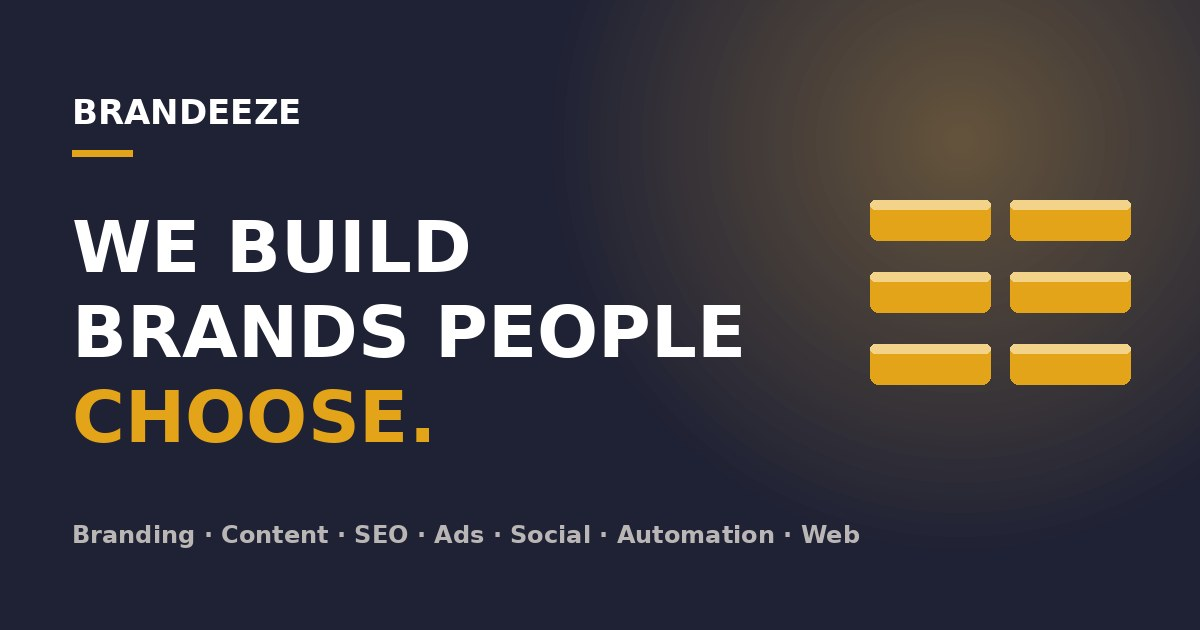
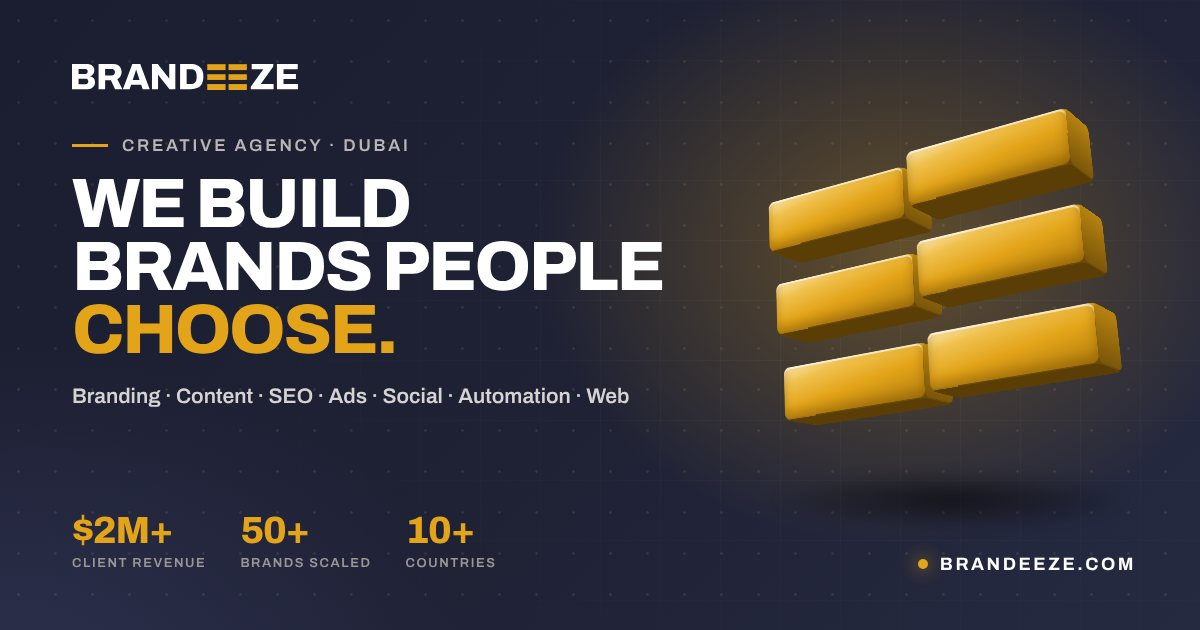
SEO/GEO: per-page share images, homepage FAQ + schema, quick answers, llms.txt, AI crawler rules, image sitemap
Claude-Session: https://claude.ai/code/session_011ZZkLSKrB1nZxj8LvnqDWT

diff --git a/index.html b/index.html
@@ -9,10 +9,10 @@
 <meta name="robots" content="index,follow,max-image-preview:large">
 <meta property="og:type" content="website"><meta property="og:site_name" content="Brandeeze"><meta property="og:url" content="https://brandeeze.com/">
 <meta property="og:title" content="Brandeeze | Creative & Marketing Agency in Dubai"><meta property="og:description" content="Brandeeze is a Dubai-based creative and marketing agency: branding, video, SEO, paid ads, social media, automation and web design. One team, clear results.">
-<meta property="og:image" content="https://brandeeze.com/assets/og-image.jpg"><meta property="og:image:width" content="1200"><meta property="og:image:height" content="630">
-<meta name="twitter:card" content="summary_large_image"><meta name="twitter:image" content="https://brandeeze.com/assets/og-image.jpg">
+<meta property="og:image" content="https://brandeeze.com/assets/og/home.jpg"><meta property="og:image:width" content="1200"><meta property="og:image:height" content="630"><meta property="og:image:alt" content="Brandeeze, creative and marketing agency in Dubai">
+<meta name="twitter:card" content="summary_large_image"><meta name="twitter:image" content="https://brandeeze.com/assets/og/home.jpg">
 <link rel="icon" href="/assets/favicon.svg" type="image/svg+xml">
-<script type="application/ld+json">{"@context": "https://schema.org", "@graph": [{"@type": "ProfessionalService", "@id": "https://brandeeze.com/#org", "name": "Brandeeze", "url": "https://brandeeze.com/", "logo": "https://brandeeze.com/assets/wordmark-on-dark.svg", "image": "https://brandeeze.com/assets/og-image.jpg", "description": "Brandeeze is a Dubai-based creative and marketing agency for branding, video and content, SEO and performance marketing, social media, automation and web and software.", "email": "hello@brandeeze.com", "address": {"@type": "PostalAddress", "addressLocality": "Dubai", "addressCountry": "AE"}, "areaServed": [{"@type": "Place", "name": "Worldwide"}, {"@type": "Country", "name": "United Arab Emirates"}, {"@type": "Country", "name": "Saudi Arabia"}], "knowsAbout": ["Branding", "Logo design", "Video production", "Content marketing", "SEO", "Local SEO", "Google Ads", "Meta ads", "Performance marketing", "Social media marketing", "Influencer marketing", "Marketing automation", "WhatsApp automation", "CRM consultancy", "AI automation", "Web design", "E-commerce development", "Software development", "Data & analytics consultancy"], "hasOfferCatalog": {"@type": "OfferCatalog", "name": "Brandeeze services", "itemListElement": [{"@type": "Offer", "itemOffered": {"@type": "Service", "name": "Branding", "url": "https://brandeeze.com/services/branding-agency"}}, {"@type": "Offer", "itemOffered": {"@type": "Service", "name": "Logo design", "url": "https://brandeeze.com/services/logo-design"}}, {"@type": "Offer", "itemOffered": {"@type": "Service", "name": "Video production", "url": "https://brandeeze.com/services/video-production-company"}}, {"@type": "Offer", "itemOffered": {"@type": "Service", "name": "Content marketing", "url": "https://brandeeze.com/services/content-marketing-agency"}}, {"@type": "Offer", "itemOffered": {"@type": "Service", "name": "SEO", "url": "https://brandeeze.com/services/seo-agency"}}, {"@type": "Offer", "itemOffered": {"@type": "Service", "name": "Local SEO", "url": "https://brandeeze.com/services/local-seo"}}, {"@type": "Offer", "itemOffered": {"@type": "Service", "name": "Google Ads", "url": "https://brandeeze.com/services/google-ads-agency"}}, {"@type": "Offer", "itemOffered": {"@type": "Service", "name": "Meta ads", "url": "https://brandeeze.com/services/meta-ads-agency"}}, {"@type": "Offer", "itemOffered": {"@type": "Service", "name": "Performance marketing", "url": "https://brandeeze.com/services/performance-marketing-agency"}}, {"@type": "Offer", "itemOffered": {"@type": "Service", "name": "Social media marketing", "url": "https://brandeeze.com/services/social-media-agency"}}, {"@type": "Offer", "itemOffered": {"@type": "Service", "name": "Influencer marketing", "url": "https://brandeeze.com/services/influencer-marketing-agency"}}, {"@type": "Offer", "itemOffered": {"@type": "Service", "name": "Marketing automation", "url": "https://brandeeze.com/services/marketing-automation-agency"}}, {"@type": "Offer", "itemOffered": {"@type": "Service", "name": "WhatsApp automation", "url": "https://brandeeze.com/services/whatsapp-automation"}}, {"@type": "Offer", "itemOffered": {"@type": "Service", "name": "CRM consultancy", "url": "https://brandeeze.com/services/crm-consultancy"}}, {"@type": "Offer", "itemOffered": {"@type": "Service", "name": "AI automation", "url": "https://brandeeze.com/services/ai-automation-agency"}}, {"@type": "Offer", "itemOffered": {"@type": "Service", "name": "Web design", "url": "https://brandeeze.com/services/web-design-company"}}, {"@type": "Offer", "itemOffered": {"@type": "Service", "name": "E-commerce development", "url": "https://brandeeze.com/services/ecommerce-development"}}, {"@type": "Offer", "itemOffered": {"@type": "Service", "name": "Software development", "url": "https://brandeeze.com/services/software-development-company"}}, {"@type": "Offer", "itemOffered": {"@type": "Service", "name": "Data & analytics consultancy", "url": "https://brandeeze.com/services/data-analytics-consultancy"}}]}}, {"@type": "WebSite", "@id": "https://brandeeze.com/#website", "name": "Brandeeze", "url": "https://brandeeze.com/", "publisher": {"@id": "https://brandeeze.com/#org"}, "inLanguage": "en"}]}</script>
+<script type="application/ld+json">{"@context": "https://schema.org", "@graph": [{"@type": "ProfessionalService", "@id": "https://brandeeze.com/#org", "name": "Brandeeze", "url": "https://brandeeze.com/", "logo": "https://brandeeze.com/assets/wordmark-on-dark.svg", "image": "https://brandeeze.com/assets/og/home.jpg", "slogan": "One team. Six disciplines. Brands that grow.", "contactPoint": {"@type": "ContactPoint", "contactType": "sales", "email": "hello@brandeeze.com", "availableLanguage": ["English", "Arabic"]}, "description": "Brandeeze is a Dubai-based creative and marketing agency for branding, video and content, SEO and performance marketing, social media, automation and web and software.", "email": "hello@brandeeze.com", "address": {"@type": "PostalAddress", "addressLocality": "Dubai", "addressCountry": "AE"}, "areaServed": [{"@type": "Place", "name": "Worldwide"}, {"@type": "Country", "name": "United Arab Emirates"}, {"@type": "Country", "name": "Saudi Arabia"}], "knowsAbout": ["Branding", "Logo design", "Video production", "Content marketing", "SEO", "Local SEO", "Google Ads", "Meta ads", "Performance marketing", "Social media marketing", "Influencer marketing", "Marketing automation", "WhatsApp automation", "CRM consultancy", "AI automation", "Web design", "E-commerce development", "Software development", "Data & analytics consultancy"], "hasOfferCatalog": {"@type": "OfferCatalog", "name": "Brandeeze services", "itemListElement": [{"@type": "Offer", "itemOffered": {"@type": "Service", "name": "Branding", "url": "https://brandeeze.com/services/branding-agency"}}, {"@type": "Offer", "itemOffered": {"@type": "Service", "name": "Logo design", "url": "https://brandeeze.com/services/logo-design"}}, {"@type": "Offer", "itemOffered": {"@type": "Service", "name": "Video production", "url": "https://brandeeze.com/services/video-production-company"}}, {"@type": "Offer", "itemOffered": {"@type": "Service", "name": "Content marketing", "url": "https://brandeeze.com/services/content-marketing-agency"}}, {"@type": "Offer", "itemOffered": {"@type": "Service", "name": "SEO", "url": "https://brandeeze.com/services/seo-agency"}}, {"@type": "Offer", "itemOffered": {"@type": "Service", "name": "Local SEO", "url": "https://brandeeze.com/services/local-seo"}}, {"@type": "Offer", "itemOffered": {"@type": "Service", "name": "Google Ads", "url": "https://brandeeze.com/services/google-ads-agency"}}, {"@type": "Offer", "itemOffered": {"@type": "Service", "name": "Meta ads", "url": "https://brandeeze.com/services/meta-ads-agency"}}, {"@type": "Offer", "itemOffered": {"@type": "Service", "name": "Performance marketing", "url": "https://brandeeze.com/services/performance-marketing-agency"}}, {"@type": "Offer", "itemOffered": {"@type": "Service", "name": "Social media marketing", "url": "https://brandeeze.com/services/social-media-agency"}}, {"@type": "Offer", "itemOffered": {"@type": "Service", "name": "Influencer marketing", "url": "https://brandeeze.com/services/influencer-marketing-agency"}}, {"@type": "Offer", "itemOffered": {"@type": "Service", "name": "Marketing automation", "url": "https://brandeeze.com/services/marketing-automation-agency"}}, {"@type": "Offer", "itemOffered": {"@type": "Service", "name": "WhatsApp automation", "url": "https://brandeeze.com/services/whatsapp-automation"}}, {"@type": "Offer", "itemOffered": {"@type": "Service", "name": "CRM consultancy", "url": "https://brandeeze.com/services/crm-consultancy"}}, {"@type": "Offer", "itemOffered": {"@type": "Service", "name": "AI automation", "url": "https://brandeeze.com/services/ai-automation-agency"}}, {"@type": "Offer", "itemOffered": {"@type": "Service", "name": "Web design", "url": "https://brandeeze.com/services/web-design-company"}}, {"@type": "Offer", "itemOffered": {"@type": "Service", "name": "E-commerce development", "url": "https://brandeeze.com/services/ecommerce-development"}}, {"@type": "Offer", "itemOffered": {"@type": "Service", "name": "Software development", "url": "https://brandeeze.com/services/software-development-company"}}, {"@type": "Offer", "itemOffered": {"@type": "Service", "name": "Data & analytics consultancy", "url": "https://brandeeze.com/services/data-analytics-consultancy"}}]}}, {"@type": "FAQPage", "@id": "https://brandeeze.com/#faq", "mainEntity": [{"@type": "Question", "name": "What does Brandeeze do?", "acceptedAnswer": {"@type": "Answer", "text": "Brandeeze is a creative and marketing agency based in Dubai. One team covers six disciplines: branding, video and content, SEO and performance marketing, social media, automation (CRM, WhatsApp and AI agents) and web and software."}}, {"@type": "Question", "name": "Where is Brandeeze based, and which markets do you work in?", "acceptedAnswer": {"@type": "Answer", "text": "We are based in Dubai, UAE, and work with brands across the GCC, the wider Middle East, Europe, North America, Asia and Africa. We work in English and Arabic."}}, {"@type": "Question", "name": "Do you offer SEO as a service?", "acceptedAnswer": {"@type": "Answer", "text": "Yes. SEO sits inside our SEO and performance practice alongside Google Ads and Meta ads: technical SEO, local SEO and Google Business Profile, content, and conversion tracking, reported against leads and revenue rather than rankings alone."}}, {"@type": "Question", "name": "What results have you delivered for clients?", "acceptedAnswer": {"@type": "Answer", "text": "Across our client work we have generated over $2M in revenue for clients and helped scale 50+ businesses. Each case study on our work page shows the specific numbers, timeframe and what we did."}}, {"@type": "Question", "name": "How long does a branding or website project take?", "acceptedAnswer": {"@type": "Answer", "text": "A focused brand identity usually takes 3 to 6 weeks, and a marketing website 4 to 8 weeks. Larger e-commerce builds, software and automation projects are scoped individually after a short discovery call."}}, {"@type": "Question", "name": "How do we start working together?", "acceptedAnswer": {"@type": "Answer", "text": "Send a brief through the contact page or email hello@brandeeze.com. We reply with questions, a scope and a fixed quote, and you can download our company profile to see past work first."}}]}, {"@type": "WebPage", "@id": "https://brandeeze.com/#webpage", "url": "https://brandeeze.com/", "name": "Brandeeze | Creative & Marketing Agency in Dubai", "isPartOf": {"@id": "https://brandeeze.com/#website"}, "about": {"@id": "https://brandeeze.com/#org"}, "primaryImageOfPage": "https://brandeeze.com/assets/og/home.jpg", "dateModified": "2026-11-25", "inLanguage": "en"}, {"@type": "WebSite", "@id": "https://brandeeze.com/#website", "name": "Brandeeze", "url": "https://brandeeze.com/", "publisher": {"@id": "https://brandeeze.com/#org"}, "inLanguage": "en"}]}</script>
 <meta name="theme-color" content="#1F2235">
 <link rel="stylesheet" href="_ds/brandeez-design-system-fbe1068f-90f0-4bec-97b9-453ac5cf9fae/tokens/fonts.css">
 <style>
@@ -234,6 +234,16 @@ main{transition:opacity .9s var(--ease) .15s}body.loading main,body.loading .nav
 @media (max-width:560px){.process .grid{grid-template-columns:1fr}}
 
 /* ---------- CTA / footer ---------- */
+.faq-s{position:relative;z-index:1;padding:clamp(90px,10vw,160px) 0 0}
+.faq-s .fqs{margin-top:clamp(32px,4vw,56px);border-top:1px solid rgba(255,255,255,.12)}
+.fq{border-bottom:1px solid rgba(255,255,255,.12)}
+.fq summary{list-style:none;cursor:pointer;display:flex;justify-content:space-between;align-items:center;gap:24px;padding:24px 0;font-size:clamp(18px,2vw,24px);font-weight:600;letter-spacing:-.01em}
+.fq summary::-webkit-details-marker{display:none}
+.fq .pm{flex:none;width:18px;height:18px;position:relative}
+.fq .pm:before,.fq .pm:after{content:"";position:absolute;left:0;right:0;top:8px;height:2px;background:var(--gold,#E3A419);transition:transform .3s}
+.fq .pm:after{transform:rotate(90deg)}
+.fq[open] .pm:after{transform:rotate(0)}
+.fq p{margin:0 0 26px;max-width:760px;color:rgba(233,231,231,.78);font-size:17px;line-height:1.6}
 .cta-s{position:relative;z-index:1;min-height:100vh;display:flex;flex-direction:column;justify-content:flex-end;padding:clamp(120px,14vw,220px) 0 0}
 .cta-s .big{text-align:center}
 .cta-s .big .h-xl{font-size:clamp(64px,13vw,230px)}
@@ -377,6 +387,22 @@ footer a:hover{color:var(--gold)}
     </div>
   </section>
 
+  <!-- FAQ -->
+  <section class="faq-s" id="faq">
+    <div class="wrap">
+      <span class="label reveal"><b>FAQ</b> Straight answers</span>
+      <h2 class="h-lg reveal" style="margin-top:24px">Questions brands<br>ask us <span class="gold">first.</span></h2>
+      <div class="fqs">
+        <details class="fq reveal"><summary>What does Brandeeze do?<span class="pm" aria-hidden="true"></span></summary><p>Brandeeze is a creative and marketing agency based in Dubai. One team covers six disciplines: branding, video and content, SEO and performance marketing, social media, automation (CRM, WhatsApp and AI agents) and web and software.</p></details>
+        <details class="fq reveal"><summary>Where is Brandeeze based, and which markets do you work in?<span class="pm" aria-hidden="true"></span></summary><p>We are based in Dubai, UAE, and work with brands across the GCC, the wider Middle East, Europe, North America, Asia and Africa. We work in English and Arabic.</p></details>
+        <details class="fq reveal"><summary>Do you offer SEO as a service?<span class="pm" aria-hidden="true"></span></summary><p>Yes. SEO sits inside our SEO and performance practice alongside Google Ads and Meta ads: technical SEO, local SEO and Google Business Profile, content, and conversion tracking, reported against leads and revenue rather than rankings alone.</p></details>
+        <details class="fq reveal"><summary>What results have you delivered for clients?<span class="pm" aria-hidden="true"></span></summary><p>Across our client work we have generated over $2M in revenue for clients and helped scale 50+ businesses. Each case study on our work page shows the specific numbers, timeframe and what we did.</p></details>
+        <details class="fq reveal"><summary>How long does a branding or website project take?<span class="pm" aria-hidden="true"></span></summary><p>A focused brand identity usually takes 3 to 6 weeks, and a marketing website 4 to 8 weeks. Larger e-commerce builds, software and automation projects are scoped individually after a short discovery call.</p></details>
+        <details class="fq reveal"><summary>How do we start working together?<span class="pm" aria-hidden="true"></span></summary><p>Send a brief through the contact page or email hello@brandeeze.com. We reply with questions, a scope and a fixed quote, and you can download our company profile to see past work first.</p></details>
+      </div>
+    </div>
+  </section>
+
   <!-- CTA -->
   <section class="cta-s" data-scene="4">
     <div class="wrap big">
@@ -393,7 +419,7 @@ footer a:hover{color:var(--gold)}
     <footer>
       <div class="wrap">
         <span class="cap">© 2026 Brandeeze</span>
-        <nav><a href="#services">Services</a><a href="/work">Work</a><a href="Contact.dc.html">Contact</a><a href="/locations">Locations</a><a href="/brandeeze-profile.pdf" target="_blank" rel="noopener">Company profile (PDF)</a></nav>
+        <nav><a href="#services">Services</a><a href="/work">Work</a><a href="#faq">FAQ</a><a href="Contact.dc.html">Contact</a><a href="/locations">Locations</a><a href="/brandeeze-profile.pdf" target="_blank" rel="noopener">Company profile (PDF)</a></nav>
         <nav><a href="/dubai">Agency in Dubai</a><a href="/abu-dhabi">Abu Dhabi</a><a href="/riyadh">Riyadh</a><a href="/services/seo-agency">SEO agency</a><a href="/services/branding-agency">Branding agency</a></nav>
         <span>Branding, content, SEO, performance, social, automation and software.</span>
       </div>

diff --git a/seo/og/og.html b/seo/og/og.html
@@ -1,0 +1,71 @@
+<!DOCTYPE html>
+<html><head><meta charset="utf-8">
+<style>
+@font-face{font-family:A;src:url(../../_ds/brandeez-design-system-fbe1068f-90f0-4bec-97b9-453ac5cf9fae/assets/fonts/archivo-latin-800-normal.woff2) format("woff2");font-weight:800}
+@font-face{font-family:A;src:url(../../_ds/brandeez-design-system-fbe1068f-90f0-4bec-97b9-453ac5cf9fae/assets/fonts/archivo-latin-600-normal.woff2) format("woff2");font-weight:600}
+@font-face{font-family:A;src:url(../../_ds/brandeez-design-system-fbe1068f-90f0-4bec-97b9-453ac5cf9fae/assets/fonts/archivo-latin-700-normal.woff2) format("woff2");font-weight:700}
+*{box-sizing:border-box;margin:0}
+html,body{width:1200px;height:630px;overflow:hidden;background:#1F2235}
+body{font-family:A,sans-serif;color:#fff;position:relative}
+.bg{position:absolute;inset:0;background:
+  radial-gradient(520px 420px at 900px 250px,rgba(227,164,25,.34),transparent 70%),
+  radial-gradient(700px 500px at 0 700px,rgba(46,50,80,.95),transparent 70%),
+  linear-gradient(135deg,#1B1E30,#1F2235 55%,#262A41)}
+.grid{position:absolute;inset:0;background-image:linear-gradient(rgba(255,255,255,.035) 1px,transparent 1px),linear-gradient(90deg,rgba(255,255,255,.035) 1px,transparent 1px);background-size:60px 60px;mask:radial-gradient(800px 500px at 900px 300px,#000,transparent)}
+.dots{position:absolute;inset:0;background-image:radial-gradient(rgba(243,211,137,.55) 1px,transparent 1.5px);background-size:37px 41px;opacity:.18}
+.left{position:absolute;left:72px;top:64px;bottom:60px;width:640px;display:flex;flex-direction:column}
+.logo{height:26px;width:auto;align-self:flex-start}
+.tag{margin-top:46px;display:flex;align-items:center;gap:14px;font-weight:600;font-size:17px;letter-spacing:.16em;text-transform:uppercase;color:#BAB6B6}
+.tag:before{content:"";width:36px;height:3px;background:#E3A419}
+h1{margin-top:18px;font-weight:800;text-transform:uppercase;letter-spacing:-.035em;line-height:.9;font-size:var(--fs,92px)}
+h1 em{font-style:normal;color:#E3A419}
+.sub{margin-top:20px;font-weight:600;font-size:21px;line-height:1.35;color:#D7D3D3;max-width:600px}
+.foot{margin-top:auto;display:flex;gap:34px;align-items:flex-end}
+.stat b{display:block;font-weight:800;font-size:38px;letter-spacing:-.03em;color:#E3A419;line-height:1}
+.stat span{display:block;margin-top:6px;font-weight:600;font-size:13px;letter-spacing:.12em;text-transform:uppercase;color:#9B9797}
+.url{position:absolute;right:64px;bottom:56px;font-weight:700;font-size:18px;letter-spacing:.14em;text-transform:uppercase;color:#fff;display:flex;align-items:center;gap:12px}
+.url i{width:10px;height:10px;border-radius:50%;background:#E3A419;box-shadow:0 0 18px #E3A419}
+/* 3D logo */
+.stage{position:absolute;left:720px;top:70px;width:420px;height:420px;perspective:1100px}
+.logo3d{position:absolute;left:50%;top:50%;transform-style:preserve-3d;transform:rotateX(14deg) rotateY(-30deg) rotateZ(-4deg)}
+.bar{position:absolute;transform-style:preserve-3d;--w:170px;--h:54px;--d:56px}
+.bar .f{position:absolute;left:0;top:0;border-radius:7px}
+.fr{width:var(--w);height:var(--h);transform:translateZ(calc(var(--d)/2));background:linear-gradient(170deg,#FBE3A6 0%,#F0C14E 22%,#E3A419 55%,#B57F0E 100%);box-shadow:inset 0 2px 0 rgba(255,255,255,.65),inset 0 -6px 12px rgba(120,80,5,.45)}
+.bk{width:var(--w);height:var(--h);transform:rotateY(180deg) translateZ(calc(var(--d)/2));background:#6B4A08}
+.tp{width:var(--w);height:var(--d);transform:rotateX(90deg) translateZ(calc(var(--d)/2));top:calc((var(--h) - var(--d))/2);background:linear-gradient(90deg,#F8DA8F,#EBBD4F 60%,#C9900F)}
+.bt{width:var(--w);height:var(--d);transform:rotateX(-90deg) translateZ(calc(var(--h)/2));top:calc((var(--h) - var(--d))/2);background:#5A3E06}
+.rt{width:var(--d);height:var(--h);transform:rotateY(90deg) translateZ(calc(var(--w) - var(--d)/2));left:0;background:linear-gradient(180deg,#B78310,#7A560A)}
+.lt{width:var(--d);height:var(--h);transform:rotateY(-90deg) translateZ(calc(var(--d)/2));background:linear-gradient(180deg,#D9A21C,#9A6C0B)}
+.shadow{position:absolute;left:770px;top:470px;width:360px;height:60px;border-radius:50%;background:radial-gradient(rgba(0,0,0,.55),transparent 70%);filter:blur(6px)}
+</style></head>
+<body>
+<div class="bg"></div><div class="grid"></div><div class="dots"></div>
+<div class="left">
+  <img class="logo" src="../../assets/wordmark-on-dark.svg" alt="">
+  <div class="tag" id="tag">Creative agency · Dubai</div>
+  <h1 id="h1">We build brands people <em>choose.</em></h1>
+  <div class="sub" id="sub">Branding · Content · SEO · Ads · Social · Automation · Web</div>
+  <div class="foot" id="foot">
+    <div class="stat"><b>$2M+</b><span>Client revenue</span></div>
+    <div class="stat"><b>50+</b><span>Brands scaled</span></div>
+    <div class="stat"><b>10+</b><span>Countries</span></div>
+  </div>
+</div>
+<div class="shadow"></div>
+<div class="stage"><div class="logo3d" id="logo"></div></div>
+<div class="url"><i></i>brandeeze.com</div>
+<script>
+// Build the 6-bar brand mark in CSS 3D
+const L=document.getElementById('logo');const W=170,H=54,GX=22,GY=36;
+for(let i=0;i<6;i++){const col=i<3?0:1,row=i%3;const b=document.createElement('div');b.className='bar';
+  const x=(col?GX/2:-W-GX/2),y=(row-1)*(H+GY)-H/2,z=(row-1)*-10+(col?14:-14);
+  b.style.transform=`translate3d(${x}px,${y}px,${z}px)`;b.innerHTML='<div class="f fr"></div><div class="f bk"></div><div class="f tp"></div><div class="f bt"></div><div class="f rt"></div><div class="f lt"></div>';L.appendChild(b)}
+// Parameters: ?tag=&h1=&sub=&foot=
+const q=new URLSearchParams(location.search);
+if(q.get('tag'))document.getElementById('tag').textContent=q.get('tag');
+if(q.get('h1'))document.getElementById('h1').innerHTML=q.get('h1');
+if(q.get('sub'))document.getElementById('sub').textContent=q.get('sub');
+if(q.get('foot'))document.getElementById('foot').innerHTML=q.get('foot').split('|').map(s=>{const[a,b]=s.split('~');return`<div class="stat"><b>${a}</b><span>${b}</span></div>`}).join('');
+const len=document.getElementById('h1').textContent.length;document.body.style.setProperty('--fs',(len>48?54:len>38?62:len>28?70:80)+'px');
+</script>
+</body></html>

diff --git a/seo/assets/seo.css b/seo/assets/seo.css
@@ -192,3 +192,9 @@ h1{margin:18px 0 0;font-weight:800;text-transform:uppercase;letter-spacing:-.035
 .gallery img{width:100%;height:100%;object-fit:cover;display:block}
 .gallery.g1 img{object-fit:contain;max-height:80vh}
 @media (max-width:760px){.gallery.g2,.gallery.g3{grid-template-columns:1fr}}
+.quick{padding:clamp(28px,4vw,56px) 0;background:var(--noctis-2)}
+.qa{border:1px solid rgba(227,164,25,.35);border-radius:18px;padding:clamp(22px,3vw,36px);background:linear-gradient(135deg,rgba(227,164,25,.08),transparent 60%)}
+.qa dl{margin:18px 0 0;display:grid;grid-template-columns:repeat(2,minmax(0,1fr));gap:18px 36px}
+.qa dt{font-size:11px;font-weight:700;letter-spacing:.14em;text-transform:uppercase;color:var(--gold);margin-bottom:6px}
+.qa dd{margin:0;font-size:16px;line-height:1.5;color:#E9E7E7}
+@media (max-width:760px){.qa dl{grid-template-columns:1fr}}

diff --git a/seo/og/render.py b/seo/og/render.py
@@ -1,0 +1,20 @@
+# Renders share images with headless Chrome: python3 seo/og/render.py jobs.json
+import json, sys, subprocess, urllib.parse, os, concurrent.futures
+from PIL import Image
+here = os.path.dirname(os.path.abspath(__file__))
+out = os.path.join(here, "..", "..", "assets", "og")
+os.makedirs(out, exist_ok=True)
+jobs = json.load(open(sys.argv[1]))
+def run(job):
+    name, params = job
+    png = f"/tmp/og-{name}.png"
+    url = "file://" + os.path.join(here, "og.html") + ("?" + urllib.parse.urlencode(params) if params else "")
+    subprocess.run(["google-chrome", "--headless=new", "--no-sandbox", "--disable-gpu", "--hide-scrollbars", "--force-device-scale-factor=1",
+                    "--window-size=1200,630", "--allow-file-access-from-files", "--virtual-time-budget=2500", f"--user-data-dir=/tmp/chr-{name}",
+                    f"--screenshot={png}", url], capture_output=True, timeout=90)
+    Image.open(png).convert("RGB").save(os.path.join(out, name + ".jpg"), quality=84, optimize=True, progressive=True)
+    os.remove(png); subprocess.run(["rm", "-rf", f"/tmp/chr-{name}"])
+    return name
+with concurrent.futures.ThreadPoolExecutor(6) as ex:
+    done = list(ex.map(run, jobs))
+print(len(done), "rendered")
